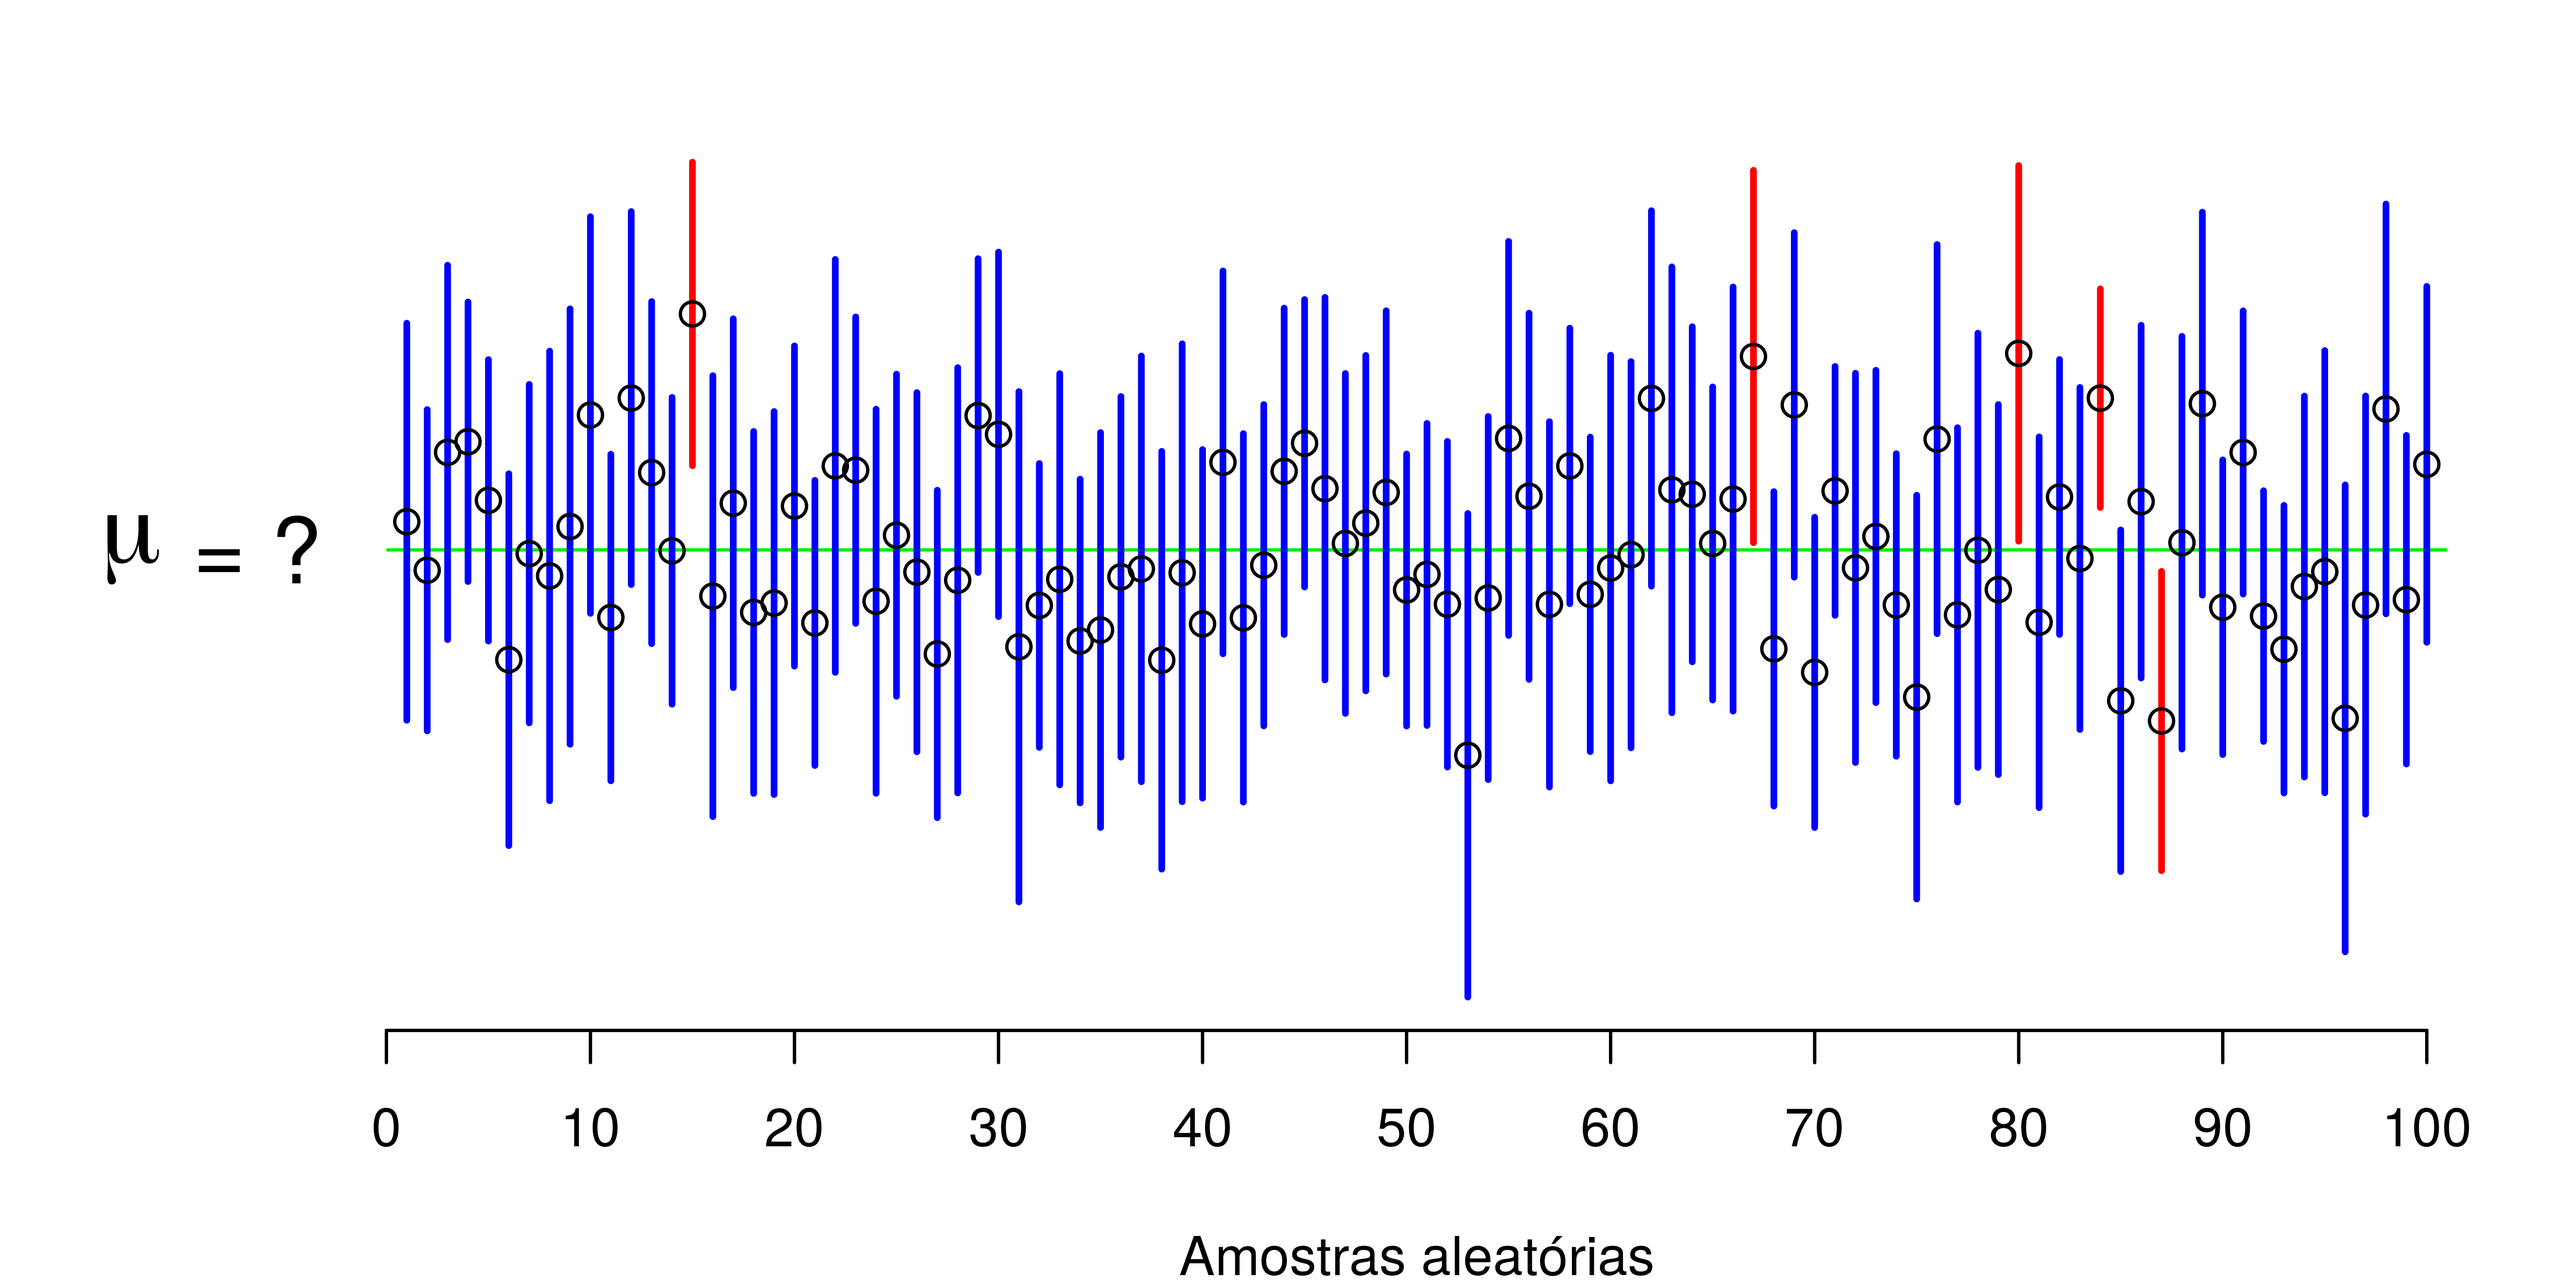
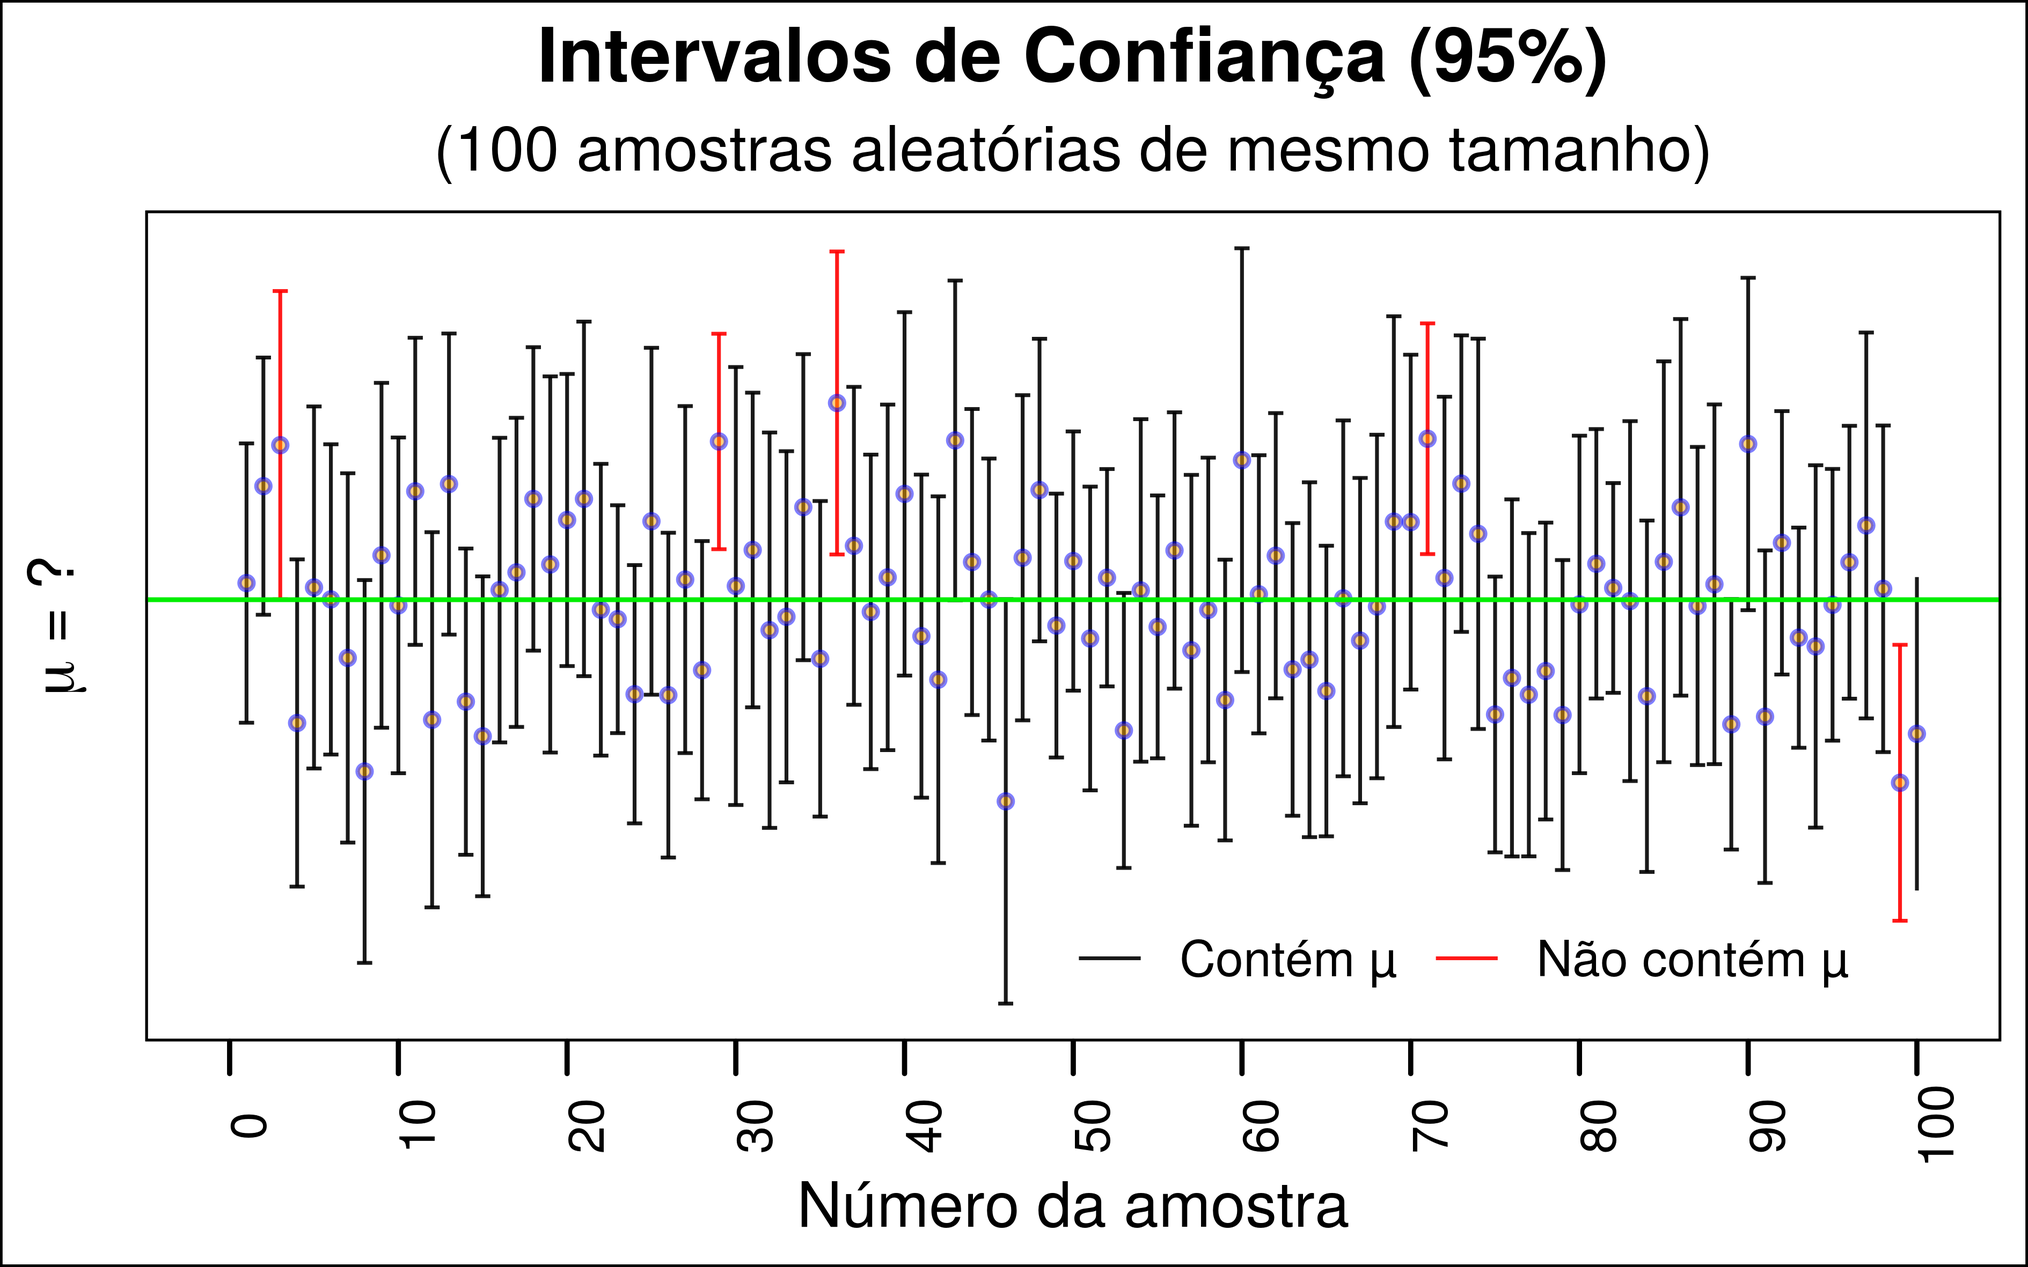
Update class 3

diff --git a/Slides/Aula3-AAS.html b/Slides/Aula3-AAS.html
@@ -86,7 +86,7 @@ top:.8em;right:1em;
 ##### Faculdade de Engenharia Florestal
 ##### E-mail: deivisonvs@ufpa.br
 &lt;br&gt;
-##### 1ª versão: 23/Novembro/2021 &lt;br&gt; (Atualizado em: 19/abril/2022) &lt;br&gt; Altamira, Pará
+##### 1ª versão: 23/Novembro/2021 &lt;br&gt; (Atualizado em: 20/abril/2022) &lt;br&gt; Altamira, Pará
 
 ---
 layout: true
@@ -1208,14 +1208,19 @@ IC_{\bar{X}} = \left[\underbrace{\bar{X} - (t_{(n-1;~\alpha)}S_{\bar{X}})}_\text
 
 ## Estimadores da Amostragem Aleatória Simples
 
-.pull-left-15[
-.font90[
-- A figura ilustra o parâmetro `\(\mu\)` desconhecido e a construção de 100 ICs a partir de 100 amostras aleatórias (de mesmo tamanho n) tomadas de uma população.
-- **O que espera-se?**: que 95% dos ICs construídos a partir das 100 amostras aleatórias da população contenham o verdadeiro valor de `\(\mu\)` (**Que é desconhecido!**).
+.pull-left-5[
+.font80[
+- A figura ilustra o parâmetro `\(\mu\)` desconhecido (linha horizontal verde) e a construção de 100 ICs a partir de 100 amostras aleatórias (de mesmo tamanho n) tomadas de uma população.
+- **O que esperar?**: que 95% dos ICs construídos a partir das 100 amostras aleatórias da população contenham o verdadeiro valor de `\(\mu\)` (**Que é desconhecido!**).
 ]
 ]
 
-&lt;img src="fig/class3/IC-Plot.png" width="68%" style="display: block; margin: auto;" /&gt;
+
+.pull-right-5[
+&lt;img src="fig/class3/IC-Plot.png" width="95%" style="display: block; margin: auto;" /&gt;
+.font80[**Tutorial para reproduzir**: [Distribuição t-Student](https://deivisonsouza.github.io/FL03039-Inventario-Florestal/Slides/Tutorial4-Distribuicao-t.html)]
+
+]
 
 ---
 
